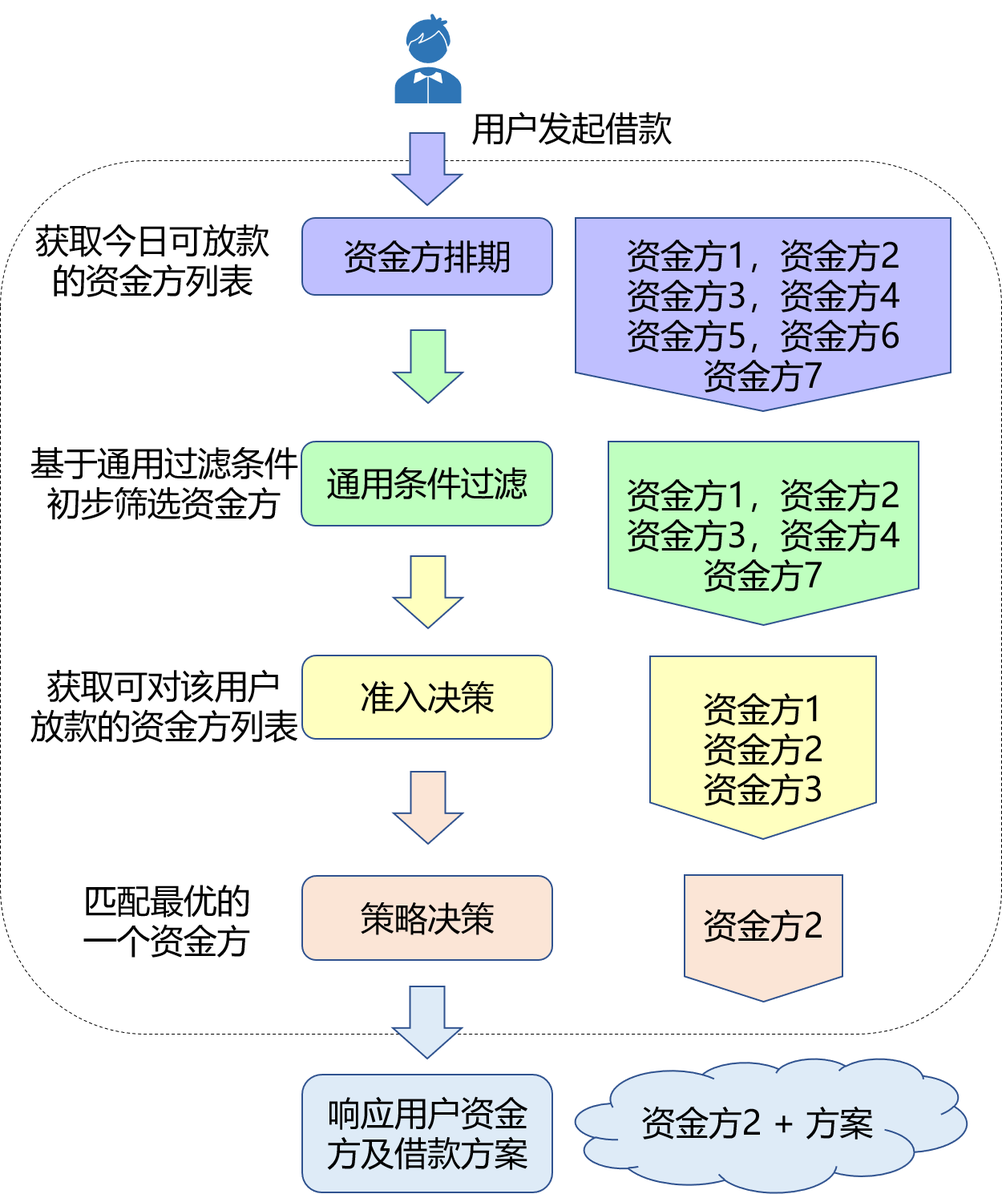
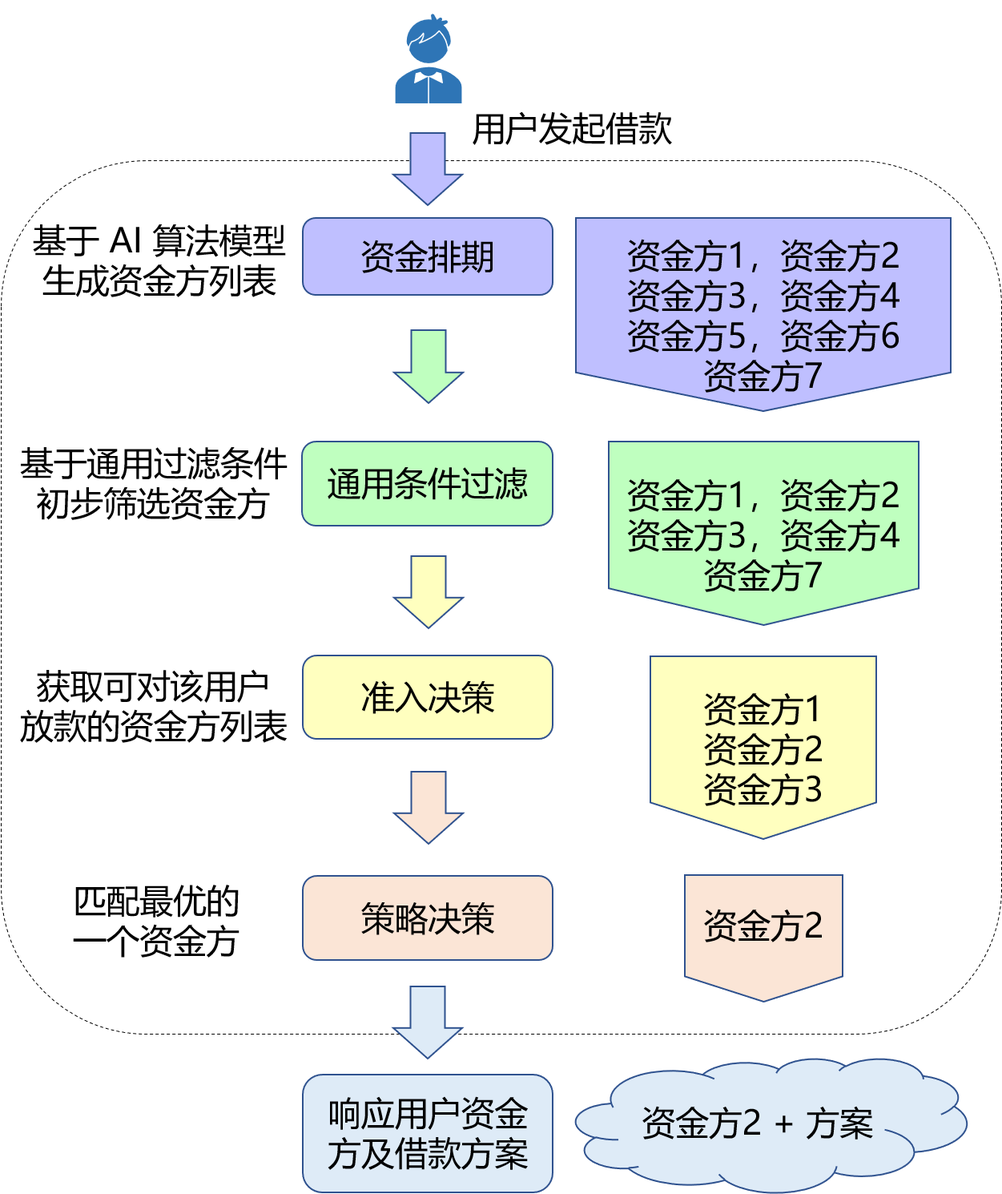
助贷平台放款路由的演进 - 内部评审后

diff --git a/learning/paper/助贷平台借款路由的演进/助贷平台借款路由的演进-数禾技术公众号.md b/learning/paper/助贷平台借款路由的演进/助贷平台借款路由的演进-数禾技术公众号.md
@@ -1,43 +1,29 @@
 # 全面数字化建设之放款策略化的演进之路
 
-> **文章概述：**还呗是一个助贷平台，在几年的努力下，与还呗合作的资金方很多。作为借款人和资金方的中介，当用户在还呗平台发起借款请求时，如何为用户推荐最合适的资金方，是还呗的一项最基本也是最重要的能力，还呗这几年是如何在放款策略化这条路上进行探索的呢？
+> **文章概述：**作为借款人和资金方的中介，当用户在平台发起借款请求时，如何为用户推荐最合适的资金方，是平台最基本也是最重要的能力，在放款策略化这条路上平台是如何进行探索的呢？
 
 > **文章分类：**#架构演进 #借款路由 #放款策略化
 
 ## 1. 背景
 
-还呗最初是一款信用卡账单分期 App，服务广大信用卡持卡人，帮用户解决信用卡难题。而后还呗衍生出了多种产品形态，面向年轻人提供账单分期和商品分期等多种服务。用户可在购物、消费、还款场景下，享受更灵活、更便捷、更高效的分期生活服务。
+在这几年的发展下，与平台合作的资金方越来越多。作为借款人和资金方的中介，当用户在平台发起借款请求时，如何为用户推荐最合适的资金方，是平台最基本也是最重要的能力，在放款策略化这条路上平台是如何进行探索的呢？
 
-虽然产品形态多样，但本质上还呗为用户提供的是小额贷款服务。由于还呗并无自有资金，是一个助贷平台，并且在还呗几年的努力下，与还呗合作的资金方很多，作为借款人和资金方的中介，当用户在还呗平台发起借款请求时，如何为用户推荐最合适的资金方，是还呗的一项最基本也是最重要的能力。
-
-> 助贷业务：是指助贷机构利用自身掌握的获客、风控及贷后管理优势，向资金方（包括持牌金融机构、类金融机构）推荐借款人，经资金方风控终审后，完成发放贷款，并获取相关服务费的业务。
-
-![数禾放款业务架构精简版](./image/架构图精简版.png)
-图：数禾放款业务架构（演示版）
+![放款业务架构精简版](./image/架构图精简版.png)
+图：放款业务架构（演示版)
 
 ### 1.1 用户借款流程
 
-用户打开还呗 App 后，选择「借现金」。之后 App 跳转至借款方案选择页面，用户可以选择借款金额和分期数。
+用户借款流程交互如下：
 
-![借款申请-分期选择](./image/借款申请-分期选择.png)
-图：还呗 - 借款金额和分期选择
-
-选择之后，系统会自动基于金额和期数，匹配最合适的资金方，并算出用户的还款计划（比如每一期要还多少钱，每一期还款的本金、利息是多少等）。
-
-![借款申请-试算页](./image/借款申请-试算页.png)
-图：还呗 - 借款方案确认
-
-用户点击「提交借款」后，就借款申请就提交成功了。
-
-![借款申请-借款成功](./image/借款申请-借款成功.png)
-图：还呗 - 借款提交成功页
-
-之后，系统会基于用户选择的金额、期数，以及系统匹配到的资金方，使用该资金方的资金完成对用户的放款。
+1. 用户使用借款产品，选择借款金额和分期数。
+2. 平台基于用户选择的金额和期数，智能匹配最合适的资金方，并算出用户的还款计划（比如每一期要还多少钱，每一期还款的本金、利息是多少等）。
+3. 用户提交放款请求。
+4. 系统基于用户选择的金额、期数，以及匹配到的资金方，完成对用户的放款。
 
 ![借款流程时序图精简版](./image/借款流程时序图精简版.png)
 图：借款流程时序图（演示版）
 
-因为是精简版的流程图，所以看起来很简单，但其中仍有一个要点值得探讨：与还呗合作的资金方很多，但是系统是怎么选择出最适合当前用户的资金方的呢？
+因为是精简版的流程图，所以看起来很简单，但其中仍有一个要点值得探讨（参见上图「借款路由」部分）：与平台合作的资金方很多，但是系统是怎么选择出最适合当前用户的资金方的呢？
 
 ![如何匹配资金方](./image/如何匹配资金方.png)
 图：如何匹配资金方
@@ -48,7 +34,7 @@
 
 第一次匹配时选择资金方1，第二次匹配时选择资金方2，第三次匹配时选择资金方3，第四次匹配时重新选择资金方1 ......
 
-缺点：每个资金方支持的金额和分期并不一样；资金方每天放款的金额是有限制的，金额放完后就不能再放款了；有些资金方有特殊限制，如只支持年龄在 X 范围内的用户借款，其他资金方则不作此限制 ......
+缺点：每个资金方支持的金额和分期并不一样；资金方每天放款的金额是有限制的；有些资金方有特殊限制 ......
 
 由于每个资金方的放款规则都不同，所以不能采用轮询的方式随机指定资金方，我们需要根据用户的借款意愿、用户的个人信息、每日放款情况等等综合判断并为用户匹配最合适的资金方。
 
@@ -97,19 +83,20 @@ if (资金没放完(资金方3)) {
 当然，有时候业务同事在配置决策树时，借款引擎默认给出的参数可能并不够，业务同事希望能够提供一些额外的参数，比如：用户使用的客户端版本、用户的手机系统类型、用户使用的借款产品类型等。当然这也没有问题，开发同事只需要基于需求开发相应的输入参数即可，增加通用的输入参数与变更复杂的匹配规则相比，开发工作量要小的多。
 
 
-### 2.2 总结
+### 2.2 演进 1 结果总结
 
 借款路由演进至 1.0 版本后，具有以下特点：
 1. 资金方匹配规则由业务同事独立设计与实现，对于开发同事和业务系统均无感知，有利于明确业务同事和开发同事各自的职责。
 2. 将基本不变的业务流程代码与经常变动的资金方匹配规则剥离，两者独立发展，可保证通用业务流程的整体稳定性。
 3. 释放了维护复杂匹配规则的开发资源，但增加了业务同事配置的工作量。
 
-### 2.3 问题
+### 2.3 借款路由 1.0 遇到的问题
 
 该方案设计出来后，效果很好，稳定工作了一年，而后开始逐步暴露出问题了：
 
 1. 资金方规则匹配的复杂逻辑完全从代码中抽离了出来，开发同事的工作量明显减少，但随着合作的资金方越来越多，决策路由的匹配规则也越来越复杂，配置经常出错，每天都有相关的问题产生且需要排查，总之决策路由的维护成本越来越高。
-2. 每个资金方支持的分期范围和金额范围都有可能不同，且针对不同的用户，不同资金方的支持也都有所不同。然而用户借款时看到的是同一套可供选择的金额范围和分期范围方案，这套方案虽然经过了精心的人工设计，但仍然难以满足所有用户的需求，容易发生这样的问题：用户选择了某个不支持的金额和分期，导致无法匹配到可用的资方，从而无法成功提交借款请求。
+2. 每个资金方支持的分期范围和金额范围都有可能不同，且针对不同的用户，不同资金方的支持也都有所不同。然而用户借款时看到的是同一套可供选择的金额范围和分期范围方案，这套方案虽然经过了精心的人工设计，但仍然难以满足所有用户的需求，容易发生这样的问题：用户选择了某个不支持的金额和分期，导致无法匹配到可用的资金方，从而无法成功提交借款请求。
+3. 当用户发起借款请求时，我们需要根据资金排期结果获取资金方列表，而后才能为用户匹配最合适的资金方。每日可放款的资金方列表都有所不同，当前资金排期工作是由商务同事手动完成的，每日均需要占用可观的人力成本，且资金排期结果未能达到最优。
 
 ## 3. 演进2：借款路由 2.0
 
@@ -117,36 +104,44 @@ if (资金没放完(资金方3)) {
 
 ### 3.1 演进方案
 
-#### 3.1.1 通用资方配置及匹配规则单独维护
+#### 3.1.1 通用资金方配置及匹配规则单独维护
 
 我们通过研究决策路由上配置的规则后发现，虽然规则过于繁杂，但是其中部分规则具有共性。虽然不同资金方匹配规则的具体取值不同，但是匹配的逻辑是一致的，没必要在决策路由中一遍又一遍重复配置同一类规则，这类规则完全可以剥离出来由代码实现，从而明显减轻决策路由的复杂性。
 
-> 自研资金配置中心：使用统一的维护页面，单独配置各个资金方共有的静态配置，且可以在代码中维护相应的匹配规则，从而减轻决策路由的负担。资金方共有的业务配置，例如：资金方支持的分期范围和金额范围、资金方支持的借款优惠券类型等。
+> 自研资金配置中心：使用统一的维护页面，单独配置各个资金方共有的静态配置，且可以在代码中维护相应的匹配规则，从而减轻决策路由的负担。
 
 ![资金配置中心](./image/资金配置中心.png)
 图：资金配置中心 - 资金方配置（演示版）
 
-#### 3.1.2 将单个决策路由拆为两个决策模块
+#### 3.1.2 单个决策路由拆分为两个决策模块
 
-对决策路由进行重构，将决策路由整体上分为两个决策模块：准入模块和策略模块。准入模块主要用于生成可借款的资金方列表（详细说明参加下一小节），进而生成用户可选择的借款方案。用户选择借款方案后，会经过策略模块，用于从刚刚生成的资金方列表中匹配最合适的资金方。两个决策模块职责分明，单个模块相比于原先的决策路由复杂性均大大减小。
+对决策路由进行重构，将决策路由整体上分为两个决策模块：准入模块和策略模块。准入模块主要用于生成可借款的资金方列表（详细说明参加下一小节），进而生成用户可选择的借款方案。用户选择借款方案后，会经过策略模块，用于从刚刚生成的资金方列表中匹配最合适的资金方。两个决策模块职责分明，每个模块相比于原先的决策路由复杂性均大大减小。
 
 ![借款路由流程图精简版](./image/借款路由流程图精简版.png)
-图：借款路由 2.0 流程图（演示版）
+图：借款路由 2.0 流程图（演示版)
 
-#### 3.1.3 实现用户可选择借款方案的动态生成
+#### 3.1.3 基于 AI 模型算法智能生成资金排期
 
-如上节所述，决策路由整体上分为准入模块和策略模块。用户要发起借款时，先过准入模块，得到一个资金方列表，须保证该列表中的资金方，对当前用户均可放款。将这些资金方支持的借款金额范围、支持的借款分期范围等取并集，即可得到用户可选择的借款金额、分期范围，根据不同的用户特征可生成最合适的可选借款方案。
+我们使用 AI 实验室研发的模型算法，自动生成最优的资金排期组合，从而满足用户的放款需求。由于资金排期计划由 AI 模型算法自动生成，商务同事仅需完成资金方基本放款额度等信息的配置即可，极大节省了人力成本，并且每年可以优化节约可观的资金成本。
+
+![智能资金排期](./image/智能资金排期.png)
+
+图：智能资金排期（演示版）
+
+#### 3.1.4 用户可选借款方案的动态生成
+
+如 3.1.2 节所述，决策路由整体上分为准入模块和策略模块。用户发起借款时，先过准入模块，得到一个资金方列表，须保证该列表中的资金方，对当前用户均可放款。将这些资金方支持的借款金额范围、支持的借款分期范围等取并集，即可得到用户可选择的借款金额、分期范围，根据不同的用户属性可生成最适合当前用户的可选借款方案。
 
 ![准入可选借款方案](./image/准入可选借款方案.png)
 图：动态生成用户可选择的借款方案（演示版）
 
 经过以上操作，动态生成的方案经过用户任意选择后，大概率能匹配到至少一个资金方。当然了，如果实在没有匹配成功，系统会自动向用户推荐最合适的借款方案，尽可能提升用户的借款成功率。
 
-#### 3.1.4 基于业务流引擎重构整个决策路由
+#### 3.1.5 基于业务流引擎完全重构借款路由
 
 通过前几小节的说明及配图，我们知道，借款路由 2.0 相比于借款路由 1.0，代码实现复杂了很多。为了减轻业务规则配置的复杂度，部分原本由决策路由实现的匹配规则转由业务代码实现；为了扩展更多的业务能力，借款路由新增了部分业务处理逻辑。
 
-从流程图中可以发现，整个借款路由由多个逻辑分明的处理模块组成，相关的代码可基于图中的业务逻辑按照流程逐步进行实现，所以我们借助公司自研的业务流引擎，对借款路由进行了重构。
+从「借款路由 2.0 流程图」中可以看到，整个借款路由由多个逻辑分明的处理模块组成，相关的代码可基于图中的业务逻辑按照流程逐步进行实现，所以我们借助公司自研的业务流引擎，对借款路由进行了重构。
 
 > 业务流：即工作流（Workflow），将业务流水线化，可将原先聚在一起较多耦合的处理逻辑拆分为相互关联的若干个处理模块，每个模块职责单一，具有较高的内聚性。业务数据在模块之间流转同时经由各个模块处理，业务逻辑清晰明确。
 
@@ -167,27 +162,27 @@ public class BfLendApplyDemoModule extends AbstractBizFlowModule {
 }
 ```
 
-只需要在模板方法中填入业务逻辑即可完成开发工作。可以在配置页面完成业务模块间的分支处理、异常处理，将相关逻辑从业务代码中抽离出来，有利于实现业务模块的单一职责，高内聚。
+只需要在模板类的示例方法中填入业务逻辑即可完成开发工作。可以在配置页面完成业务模块间的分支处理、异常处理，将相关逻辑从业务代码中抽离出来，有利于实现业务模块的单一职责，高内聚。
 
 **2. 业务流程可编排，可维护性提升**
 
 由于单个业务模块职责单一，且具有较高的内聚性，若需要模块内逻辑变更时，完全可以重新实现该模块，并在业务流层面直接完成新老模块的灰度替换。当在业务流程层面需要进行逻辑增减、业务调整时，则可以简单通过增减模块，调整模块顺序实现。以上措施有力保证了业务的整体稳定性和可维护性。
 
 ![业务流引擎精简版](./image/业务流引擎.png)
-图：业务流引擎 - 借款路由 2.0（演示版）
+图：业务流引擎 - 借款路由 2.0（演示版)
 
-### 3.2 总结
+### 3.2 演进 2 结果总结
 
-1. 对决策路由中复杂的匹配规则重新进行梳理，将通用的资金方配置单独维护，通用匹配规则（如通用的资金方匹配规则）抽离到业务代码中实现，并对决策路由进行拆分，简化单个决策模块内部匹配规则的复杂度，提升决策模块本身的可维护性，有力降低了匹配规则的维护成本。
-2. 针对不同用户匹配可借款的资金方列表，进而展示最合适的可选借款方案供用户选择，明显增加了用户与资金方匹配的成功率。
+1. 对决策路由中复杂的匹配规则重新进行梳理，将通用的资金方配置单独维护，通用匹配规则抽离到业务代码中实现，并对决策路由进行拆分，简化单个决策模块内部匹配规则的复杂度，提升决策模块本身的可维护性，明显降低了匹配规则的维护成本。
+2. 基于 AI 智能排期生成最优的资金方列表，而后针对不同用户匹配可借款的资金方列表，进而生成最优的可选借款方案供用户选择，明显增加了用户与资金方匹配的成功率。
 3. 使用业务流引擎重构借款路由，提升了借款路由相关代码的可读性、可维护性和稳定性。
 
-### 3.3 问题
+### 3.3 借款路由 2.0 遇到的问题
 
 基于前面的设计，借款路由整体已经趋于完善了，看起来已经没有了太多的改进空间，实际则不然。在一段时间的维护过程中，我们发现，借款路由还是有棘手的问题需要改进。
 
 1. 随着决策输入参数的增加，取值耗时也在线性增加，导致有时用户与资金方的匹配耗时长达 10 秒，严重影响了用户体验，急需优化。
-2. 随着时间的推移，与还呗合作的资金方越来越多，对产品的运营越来越精细化，借款引擎需要开发的决策输入参数也越来越多。导致原先并不受关注的决策输入参数开发工作量越来越重，给开发团队增加了不小的负担。输入参数过多过杂，又使得借款引擎耦合了过多且并不需要关心的业务系统以及参数获取逻辑。
+2. 随着时间的推移，合作的资金方越来越多，产品的运营也越来越精细化，借款引擎需要开发的决策输入参数也越来越多，导致原先并不受关注的决策输入参数开发工作量越来越重，给开发团队增加了不小的负担。输入参数过多过杂，又使得借款引擎耦合了过多且并不需要关心的业务系统以及参数获取逻辑。
 
 针对以上问题，我们再次提出了新的设计方案。
 
@@ -201,47 +196,51 @@ public class BfLendApplyDemoModule extends AbstractBizFlowModule {
 
 对决策输入参数进行统计分析，我们逐渐发现，这些参数可以分为两类：
 
-第一类是借款流程必知的参数，以下简称借款流程参数，如：本次用户借款的金额、期数、借款银行卡、还款银行卡等，这些参数借款引擎本身就需要知道，甚至有些参数可能就只有借款引擎知道，所以借款引擎开发这些输入参数无可厚非。
+第一类是借款流程必知的参数，以下简称借款流程参数，这些参数借款引擎本身就需要知道，甚至有些参数可能就只有借款引擎知道，所以借款引擎开发这些输入参数无可厚非。
 
-第二类需要借款引擎耦合其他业务系统并计算得到，以下简称外部依赖参数，如：用户是否绑定了某个银行的借记卡（需要耦合卡系统）、用户在某个特定的资金方是否已授信（需要耦合资金系统）、用户是否有借款订单还未还款完毕（需要耦合订单系统）、用户的真实姓名及注册手机号（需要耦合用户信息系统）。
+第二类需要借款引擎耦合其他业务系统并计算得到，以下简称外部依赖参数。
 
 所以我们进行如下设计：使用公司自研的特征平台，接管外部依赖参数的获取及计算。
 
 **2. 特征平台的使用**
 
-> 特征：有如下两种表述：1. 某个实体的某种属性值；2. 根据主题（主题，就是指某种实体，如用户实体、订单实体）调用的数据。在本文中，「特征」和「决策输入参数」两个概念含义一致。
+> 在本文中，「特征」和「决策输入参数」两个概念含义一致。
 
 特征平台管理并维护多种类型的特征，借款路由的常用特征如下：
-1. 离线特征：基于 Hive 数据，编写 Hive SQL 生成，只能获取 T-1 日的数据。通常离线特征比较简单，业务线可以自行开发。离线特征会定期跑批刷新。
-2. 实时特征：基于流式计算生成的特征。比离线特征有更高的时效性，是实时计算并生成的特征，通常在底层表增、删、改时生成。
-3. 客群特征：基于部分属性或条件，对所有满足规则的用户进行归类，得到相应的用户列表数据。
+1. 离线特征：基于 Hive 数据，编写 Hive SQL 生成。
+2. （准）实时特征：基于流式计算生成。
 
 基于大数据部门开发、维护的特征平台，当用户（主要是业务同事）希望开发新的特征时，优先直接使用已有的特征；当已有的特征无法满足要求时，可基于已有的模块化的特征，组装、计算并生成新的特征；如果仍未能满足要求，可采用传统方式提需求让开发同事实现新的特征。
 
-![特征“立体”交付体系](./image/特征“立体”交付体系.png)
-图：特征平台 - 特征 “立体” 交付体系
-
-基于特征平台，当业务部门希望增加借款路由的输入参数时，绝大多数参数均可以自主高效实现，能够极大提升新参数上线的时效性。
-
-借款路由需要执行决策时，可以基于特征平台高效获取所需的所有特征参数，可明显提升特征参数获取的时效性。
+绝大多数特征均可由业务同事自主高效实现，能够极大提升新特征上线的时效性。借款路由需要执行决策时，可以基于特征平台高效获取所需的所有特征参数，可明显提升特征参数获取的时效性。
 
 #### 4.1.2 特征取值耗时优化
 
 根据上一小节的方案进行改造，之前遇到的两个问题基本都得到了解决，用户与资金方的匹配耗时降到了2秒左右，已经达到了优化目标，然而业务同事又提出了新的要求，希望继续优化整体耗时。所以我们对借款路由的实现细节进行了进一步的梳理。
 
-我们发现，对于少量特征，借款路由业务代码本身需要使用，如果特征平台和借款引擎均重复进行取值，不但会导致资源的浪费，更重要的是会影响到借款路由整体的时效性，进而影响用户体验，所以仅借款引擎自身做了取值工作。对此处的取值逻辑，我们可以继续优化：
+我们发现，对于借款流程特征，借款路由业务代码本身需要使用，如果特征平台和借款引擎均重复进行取值，不但会导致资源的浪费，更重要的是会影响到借款路由整体的时效性，进而影响用户体验，所以仅借款引擎自身做了取值工作。对借款流程特征的取值逻辑，我们可以继续优化：
 
-1. 将借款引擎本身需要取值的特征参数取值逻辑，简单由串行转为使用线程池并行取值，即可大大减少特征参数取值的整体耗时。
-2. 基于木桶原理，特征取值的整体时效性基本取决于耗时最久的那个特征的取值用时，所以在特征取值用时超出阈值时，果断进行降级处理，即可有力保证整体耗时的稳定性。
+1. 将借款流程特征参数取值逻辑，简单由串行转为使用线程池并行取值，即可大大减少特征参数取值的整体耗时。
 
-### 4.2 总结
+2. 基于木桶原理，特征取值的整体时效性基本取决于耗时最久的那个特征的取值用时，所以在借款流程特征取值用时超出阈值时，果断进行降级处理，即可有力保证整体耗时的稳定性。
+
+   ![并行取值及熔断](./image/并行取值及熔断.png)
+
+图：并行取值及超时降级
+
+### 4.2 演进 3 结果总结
 
 1. 借款引擎将外部依赖参数进行剥离，并由特征平台统一管理，解除了借款引擎与多数业务系统的耦合，大大减轻了借款引擎的开发负担。借助特征平台的能力，明显提升了特征获取的时效性。
-2. 借款引擎特征取值细节优化，采用了多种方法，如：串行转多线程并行取值，取值降级等，进一步提升了借款路由整体的时效性以及耗时的稳定性。
+2. 借款引擎特征取值细节优化，采用了多种方法，如：串行转多线程并行取值，取值超时降级等，进一步提升了借款路由整体的时效性以及耗时的稳定性。
 
 ## 5. 借款路由演进总结
 
-1. 公司较强的技术能力和丰富的技术工具能够有效为业务赋能。以上设计深度整合了公司自研的决策路由、资金配置中心、业务流引擎、特征平台等基础设施，若公司未提供上述技术组件、平台，借款路由难以优化到满意的水平。
-2. 技术演进需要一步一步踏实实施，且每一步均目标明确，则大概率能达成较好的结果。最开始因为资金匹配规则复杂且需要持续占用开发资源，才引入了决策路由；而后因为规则复杂到难以维护才开始了借款路由的重构以及引入资金配置中心，因为流程化逻辑管理复杂才引入了业务流引擎；而后因为输入参数的开发需要持续占用开发资源且借款引擎与外部服务耦合越来越严重，才引入了特征平台管理外部特征，因为借款路由耗时需要进一步优化，才开始改造特征取值的实现细节。借款路由的每次演进均是为了解决明确的问题，或对某业务场景能带来明显的优化提升，具有很强的目的性，最终基本都能够达成预定的目标。
-3. 技术演进切忌直接设计大而全的目标，一步到位不可取。业务知识需要在具体的工作实践中逐步积累，业务问题也会逐步变得明确，在工作实践中一步步解决业务痛点，量变引起质变，即可稳健达成最终的目标。如果一开始直接设计一个大而全的目标，基本都会因为研发成本高、外部支持不足而难以推进。就算能够推进，因为未能了解真正的业务痛点，最终实现的结果极有可能与真实的需求相去甚远。
+1. **公司较强的技术能力和丰富的技术工具能够有效为业务赋能。**以上设计深度整合了公司自研的决策路由、资金配置中心、业务流引擎、特征平台等基础设施，若公司未提供上述技术组件、平台，借款路由难以优化到满意的水平。
+2. **技术演进需要一步一步踏实实施，且每一步均目标明确，即可达成较好的结果。**借款路由的每次演进均是为了解决明确的问题，或对某业务场景能带来明显的优化提升，具有很强的目的性，最终基本都能够达成预定的目标。
+3. **技术演进切忌直接设计大而全的目标，一步到位不可取。**业务知识需要在具体的工作实践中逐步积累，业务问题也会逐步变得明确，在工作实践中一步步解决业务痛点，量变引起质变，即可稳健达成最终的目标。如果一开始直接设计一个大而全的目标，基本都会因为研发成本高、外部支持不足而难以推进。就算能够推进，因为未能了解真正的业务痛点，最终实现的结果极有可能与真实的需求相去甚远。
+
+## 6. 展望
+
+1. **采用 AI 算法智能执行资金方匹配。**上述历次演进，完成了资金方匹配决策模块的剥离及匹配规则的灵活配置，但本质上仍需要人工配置各种匹配规则，占用了明显的人力成本，且匹配规则受主观影响无法达到最优。后续我们会采用 AI 算法执行资金方匹配，进一步降低人力成本，进一步提高放款成功率。
+2. **深度绑定特征平台后优化容灾能力。**根据演进 3 结果可知，借款路由深度绑定了特征平台，使用特征平台提供的能力完成大部分特征的获取及大部分决策的执行。特征平台耦合了众多服务并基于这些服务产出各种特征，此时一个外部服务响应超时就可能导致外部依赖特征整体取值超时，从而明显影响到借款路由的可用性。后续我们会优化借款路由的容灾能力及降级策略，进一步提升借款路由的可用性，优化用户体验。
 
